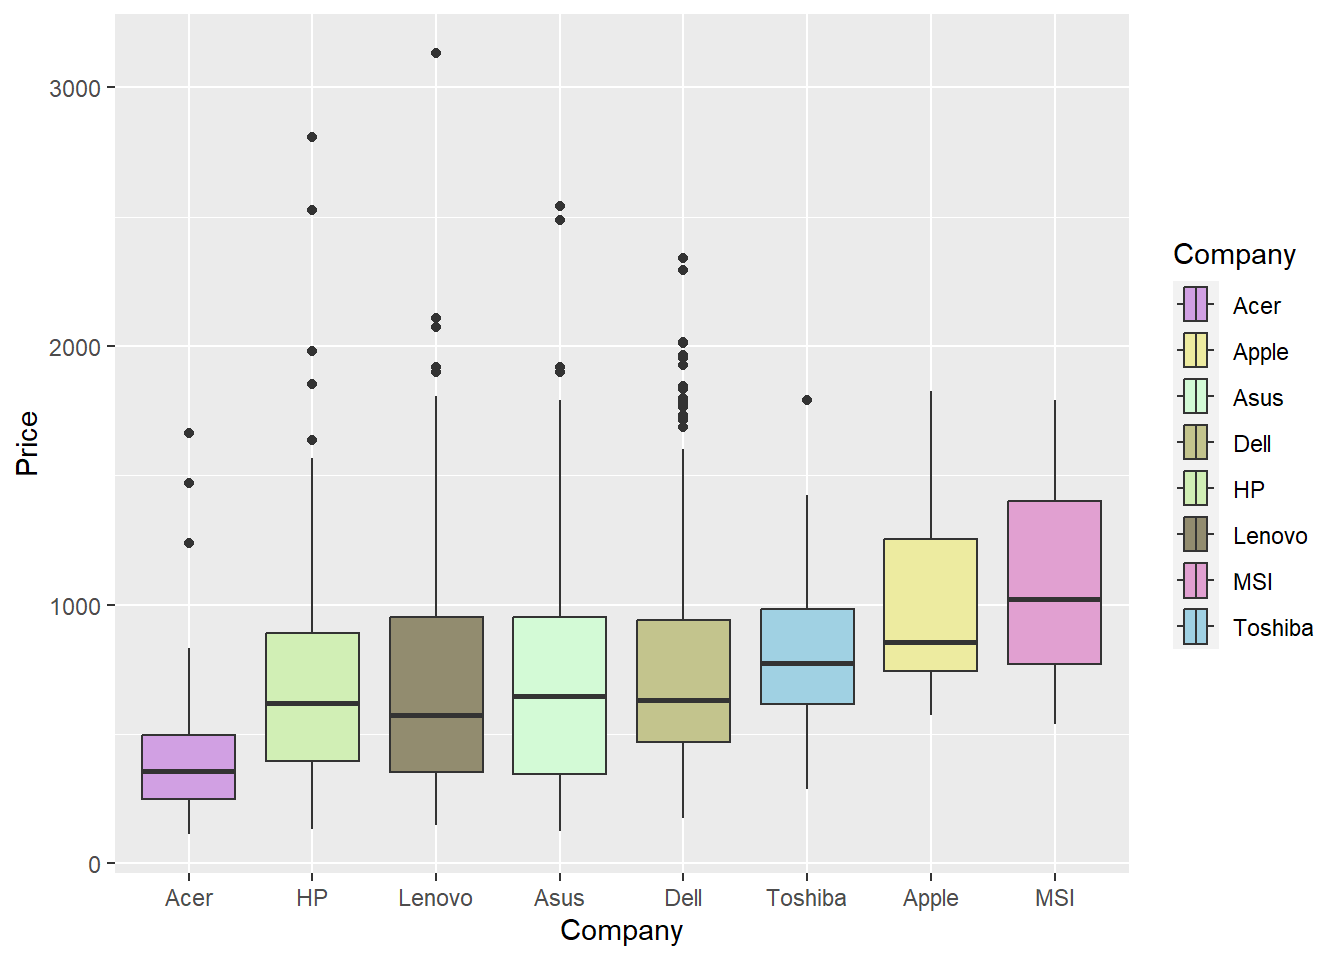
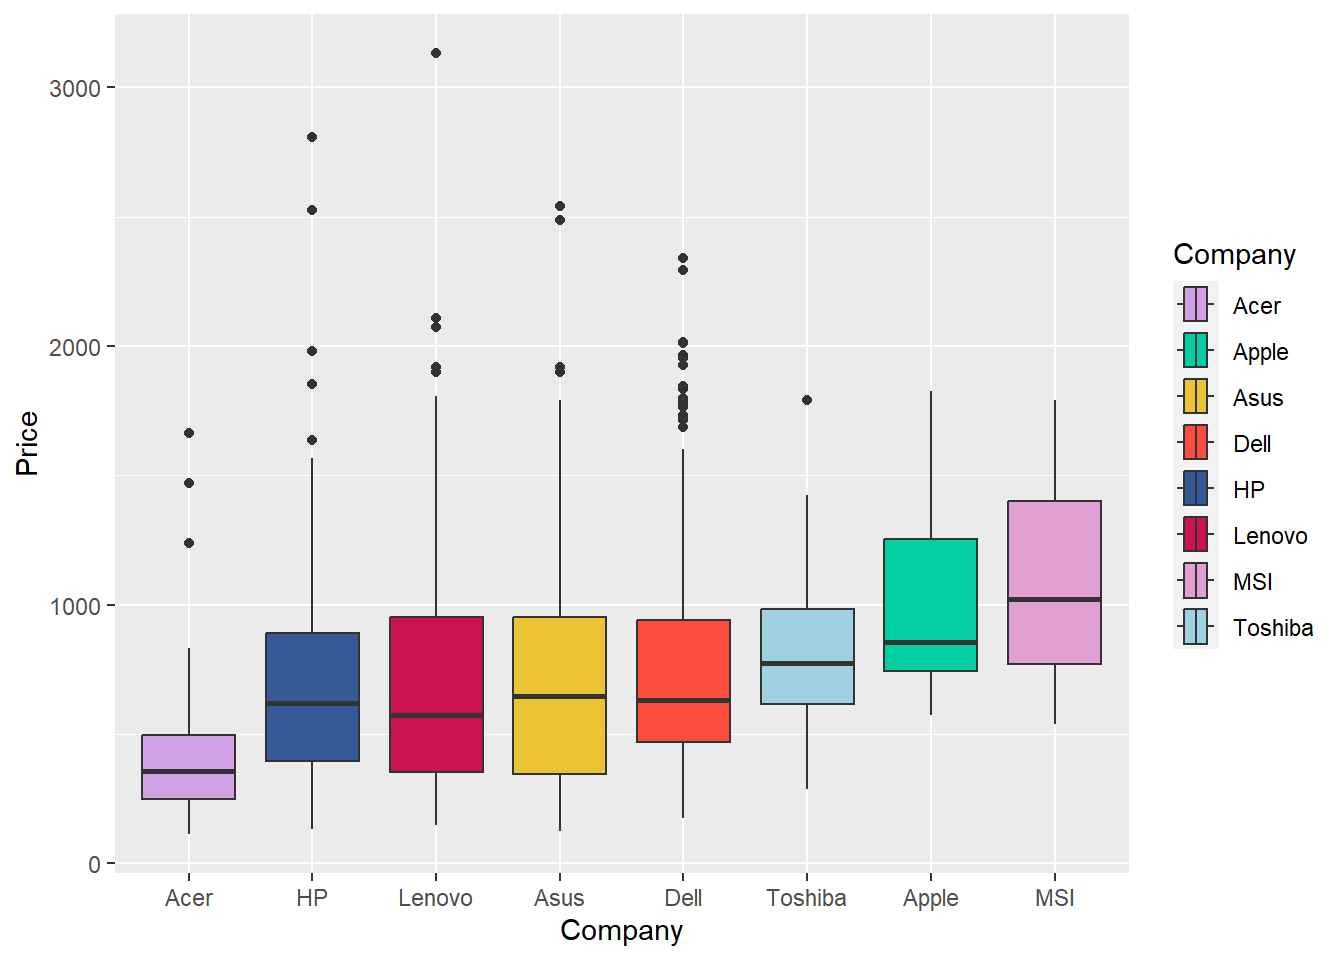
corrected colours

Changed region(s): [[0.1875, 0.625, 0.5625, 0.8125], [0.6562, 0.5625, 0.75, 0.7188], [0.875, 0.3438, 0.9062, 0.5938]]

diff --git a/docs/index.html b/docs/index.html
@@ -225,24 +225,25 @@ $ OpSys            &lt;chr&gt; "macOS", "macOS", "No OS", "macOS", "macOS", "Win
 $ Weight           &lt;chr&gt; "1.37kg", "1.34kg", "1.86kg", "1.83kg", "1.37kg", "2.…
 $ Price            &lt;dbl&gt; 71378.68, 47895.52, 30636.00, 135195.34, 96095.81, 21…</code></pre>
 </div>
+</div>
+<div class="cell">
+<div class="sourceCode cell-code" id="cb4"><pre class="sourceCode r code-with-copy"><code class="sourceCode r"><span id="cb4-1"><a href="#cb4-1" aria-hidden="true" tabindex="-1"></a><span class="co"># Use the new colors in your plots</span></span>
+<span id="cb4-2"><a href="#cb4-2" aria-hidden="true" tabindex="-1"></a><span class="fu">ggplot</span>(total_brands_and_laptops, <span class="fu">aes</span>(<span class="at">x =</span> <span class="fu">reorder</span>(Company, n), <span class="at">y =</span> n, <span class="at">fill =</span> Company)) <span class="sc">+</span></span>
+<span id="cb4-3"><a href="#cb4-3" aria-hidden="true" tabindex="-1"></a>  <span class="fu">geom_bar</span>(<span class="at">stat =</span> <span class="st">"identity"</span>) <span class="sc">+</span></span>
+<span id="cb4-4"><a href="#cb4-4" aria-hidden="true" tabindex="-1"></a>  <span class="fu">labs</span>(<span class="at">x =</span> <span class="st">"Company"</span>, <span class="at">y =</span> <span class="st">"Number of Laptop Types"</span>, <span class="at">title =</span> <span class="st">"Number of Laptop Types by Company"</span>) <span class="sc">+</span></span>
+<span id="cb4-5"><a href="#cb4-5" aria-hidden="true" tabindex="-1"></a>  <span class="fu">theme</span>(<span class="at">axis.text.x =</span> <span class="fu">element_text</span>(<span class="at">angle =</span> <span class="dv">45</span>, <span class="at">hjust =</span> <span class="dv">1</span>)) <span class="sc">+</span></span>
+<span id="cb4-6"><a href="#cb4-6" aria-hidden="true" tabindex="-1"></a>  <span class="fu">scale_fill_manual</span>(<span class="at">values =</span> brand_colors)</span></code><button title="Copy to Clipboard" class="code-copy-button"><i class="bi"></i></button></pre></div>
 <div class="cell-output-display">
-<p><img src="index_files/figure-html/unnamed-chunk-3-1.png" class="img-fluid" width="672"></p>
+<p><img src="index_files/figure-html/unnamed-chunk-4-1.png" class="img-fluid" width="672"></p>
 </div>
 </div>
 <p>However, there are some companies that produced very little laptops, and I felt they were not relevant to the total analysis, since the popularity of their products would likely be lower. The few laptop types they produced would also make it difficult to create any conclusive data trends about their products. Hence, I removed brands who produced less than 20 laptops from the dataset.</p>
 <div class="cell">
 <div class="cell-output-display">
-<p><img src="index_files/figure-html/unnamed-chunk-4-1.png" class="img-fluid" width="672"></p>
-</div>
-</div>
-<div class="cell">
-<div class="sourceCode cell-code" id="cb4"><pre class="sourceCode r code-with-copy"><code class="sourceCode r"><span id="cb4-1"><a href="#cb4-1" aria-hidden="true" tabindex="-1"></a><span class="fu">ggplot</span>(brand_nos, <span class="fu">aes</span>(<span class="at">x =</span> <span class="fu">fct_reorder</span>(Company, n), <span class="at">y =</span> n, <span class="at">fill =</span> Company)) <span class="sc">+</span></span>
-<span id="cb4-2"><a href="#cb4-2" aria-hidden="true" tabindex="-1"></a>  <span class="fu">labs</span>(<span class="at">x =</span> <span class="st">"Company"</span>, <span class="at">y =</span> <span class="st">"Number of Laptops"</span>, <span class="at">title =</span> <span class="st">"Number of Laptops Produced by Each Company"</span>) <span class="sc">+</span></span>
-<span id="cb4-3"><a href="#cb4-3" aria-hidden="true" tabindex="-1"></a>  <span class="fu">geom_bar</span>(<span class="at">stat =</span> <span class="st">"identity"</span>) <span class="sc">+</span></span>
-<span id="cb4-4"><a href="#cb4-4" aria-hidden="true" tabindex="-1"></a>  <span class="fu">theme</span>(<span class="at">axis.text.x =</span> <span class="fu">element_text</span>(<span class="at">angle =</span> <span class="dv">45</span>, <span class="at">hjust =</span> <span class="dv">1</span>)) <span class="sc">+</span></span>
-<span id="cb4-5"><a href="#cb4-5" aria-hidden="true" tabindex="-1"></a>  <span class="fu">scale_fill_manual</span>(<span class="at">values =</span> brand_colors)</span></code><button title="Copy to Clipboard" class="code-copy-button"><i class="bi"></i></button></pre></div>
-<div class="cell-output-display">
 <p><img src="index_files/figure-html/unnamed-chunk-5-1.png" class="img-fluid" width="672"></p>
+</div>
+<div class="cell-output-display">
+<p><img src="index_files/figure-html/unnamed-chunk-5-2.png" class="img-fluid" width="672"></p>
 </div>
 </div>
 </section>
